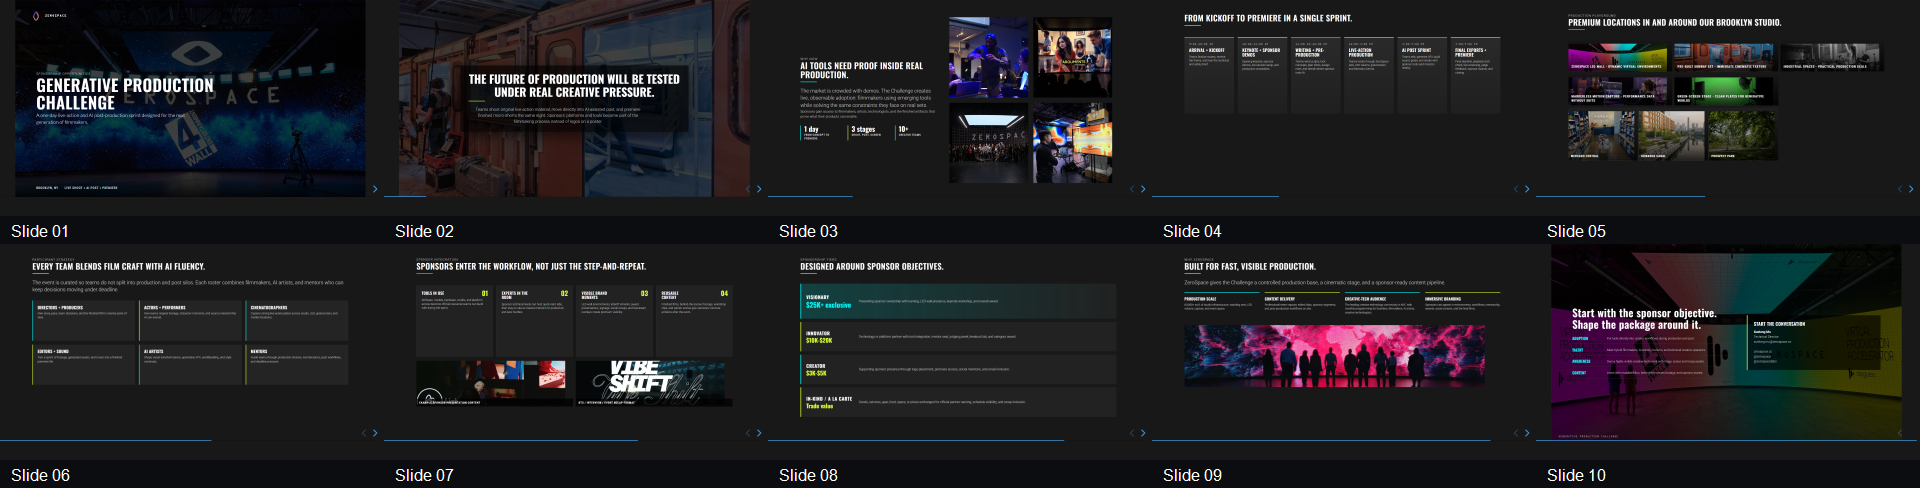
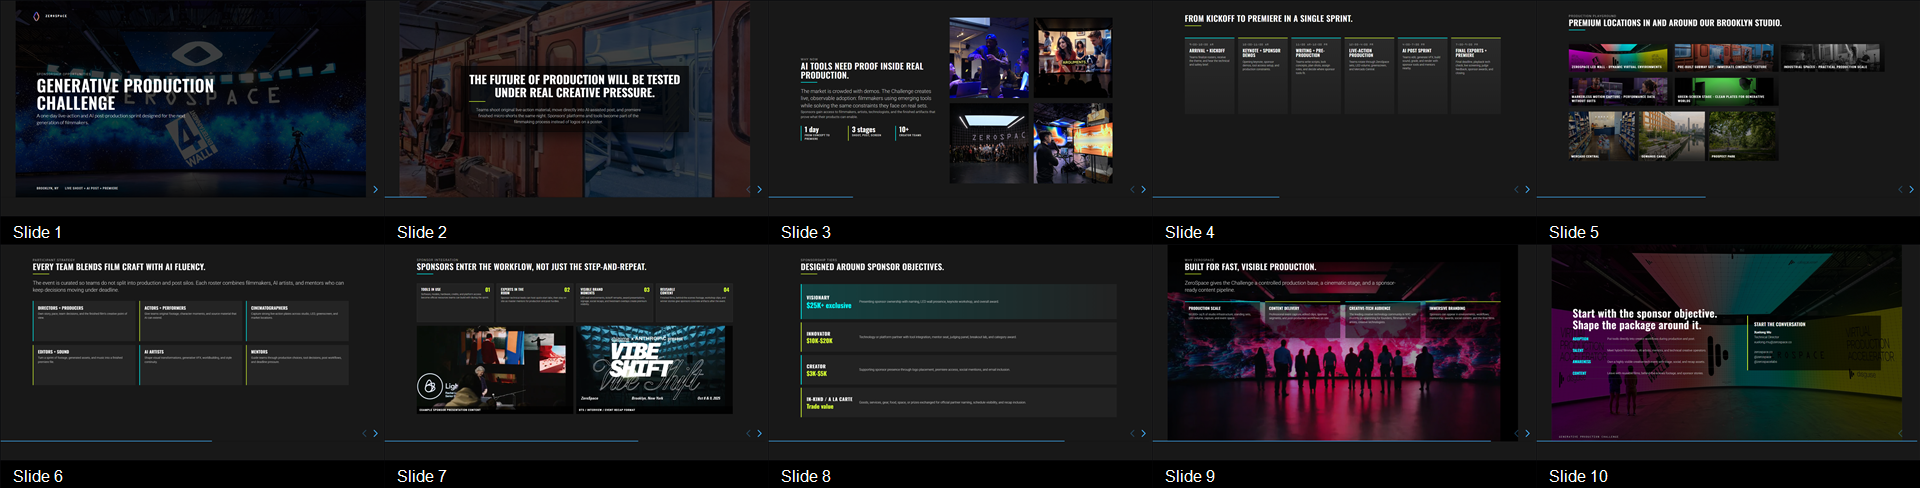
Refine challenge deck visuals

diff --git a/generative-production-challenge/index.html b/generative-production-challenge/index.html
@@ -421,46 +421,50 @@
     .workflow {
       align-items: stretch;
       display: grid;
-      gap: 0.75em;
+      gap: 0.55em;
       grid-template-columns: repeat(4, 1fr);
-      margin-top: 1.35em;
+      margin-top: 0.85em;
     }
     .workflow-step {
       background: #222;
       border: 1px solid var(--line);
-      min-height: 330px;
-      padding: 1em;
+      min-height: 168px;
+      padding: 0.72em 0.82em;
       position: relative;
     }
     .workflow-step::before {
       color: var(--lime);
       content: attr(data-step);
       font-family: var(--font-heading);
-      font-size: 1.3em;
+      font-size: 1.02em;
       position: absolute;
       right: 0.65em;
       top: 0.45em;
     }
     .workflow-step h3 {
-      font-size: 0.78em;
-      margin-bottom: 0.7em;
-      max-width: 170px;
+      font-size: 0.68em;
+      margin-bottom: 0.45em;
+      max-width: 150px;
     }
-    .workflow-step p { font-size: 0.55em; }
+    .workflow-step p {
+      font-size: 0.47em;
+      line-height: 1.32;
+    }
     .content-examples {
       display: grid;
       gap: 0.55em;
       grid-template-columns: repeat(2, 1fr);
-      height: 250px;
-      margin-top: 0.85em;
+      margin-top: 0.75em;
     }
     .content-example {
+      aspect-ratio: 16 / 9;
+      background: #050505;
       overflow: hidden;
       position: relative;
     }
     .content-example video {
       height: 100%;
-      object-fit: cover;
+      object-fit: contain;
       width: 100%;
     }
 
@@ -589,6 +593,43 @@
       margin-bottom: 0.55em;
     }
     .proof p { font-size: 0.54em; }
+    .proof-slide .slide-content {
+      justify-content: flex-start;
+    }
+    .slide-bg.proof-bg {
+      background: #000;
+      overflow: hidden;
+    }
+    .slide-bg.proof-bg img {
+      filter: brightness(1.32) saturate(1.08) contrast(1.02);
+      height: 100%;
+      inset: 0;
+      object-fit: cover;
+      object-position: center center;
+      position: absolute;
+      transform: translateY(76px);
+      width: 100%;
+      z-index: 0;
+    }
+    .slide-bg.proof-bg::after {
+      background:
+        linear-gradient(180deg, rgba(0,0,0,0.98) 0%, rgba(0,0,0,0.78) 7%, rgba(0,0,0,0.34) 22%, rgba(0,0,0,0.18) 46%, rgba(0,0,0,0.38) 100%),
+        linear-gradient(90deg, rgba(0,0,0,0.54), rgba(0,0,0,0.03) 45%, rgba(0,0,0,0.44));
+      z-index: 1;
+    }
+    .proof-slide .lead {
+      max-width: 1180px;
+      text-shadow: 0 2px 18px rgba(0,0,0,0.95);
+    }
+    .proof-slide .proof-grid {
+      margin-top: 1.5em;
+    }
+    .proof-slide .proof {
+      background: rgba(0, 0, 0, 0.63);
+      box-shadow: 0 18px 44px rgba(0,0,0,0.38);
+      min-height: 150px;
+      padding: 0.86em 0.78em;
+    }
 
     .ask-layout {
       align-items: center;
@@ -901,7 +942,10 @@
         </div>
       </section>
 
-      <section>
+      <section class="proof-slide">
+        <div class="slide-bg proof-bg">
+          <img src="assets/zerospace-stage-zmx.webp" alt="">
+        </div>
         <div class="slide-content">
           <p class="eyebrow"><!-- copy:s09.eyebrow -->Why ZeroSpace<!-- /copy --></p>
           <h2><!-- copy:s09.title -->Built for fast, visible production.<!-- /copy --></h2>
@@ -924,9 +968,6 @@
               <h3><!-- copy:s09.proof4.title -->Immersive Branding<!-- /copy --></h3>
               <p><!-- copy:s09.proof4.copy -->Sponsors can appear in environments, workflows, mentorship, awards, social content, and the final films.<!-- /copy --></p>
             </div>
-          </div>
-          <div class="full-image" style="height: 360px; margin-top: 1.3em;">
-            <img src="assets/zerospace-stage-zmx.webp" alt="ZeroSpace stage event production">
           </div>
         </div>
       </section>